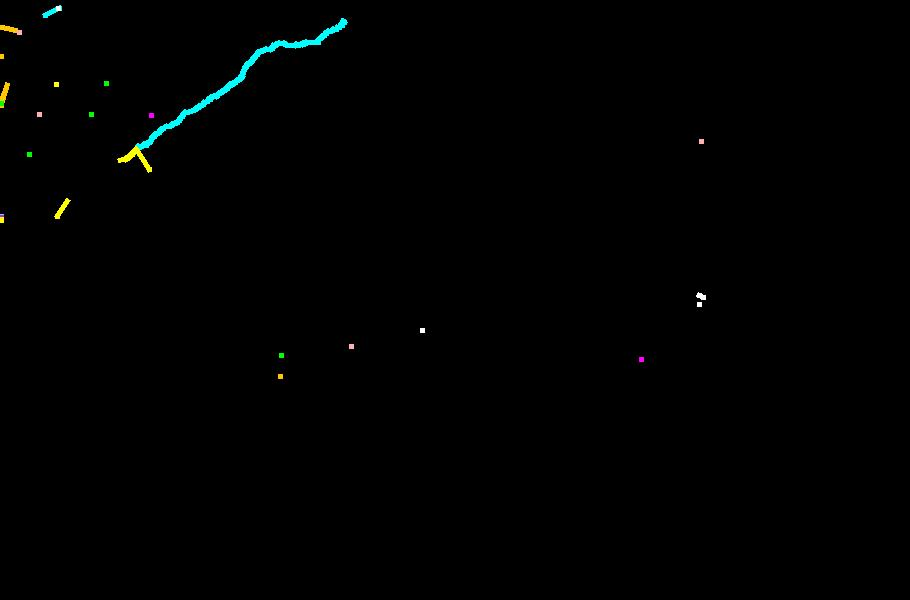
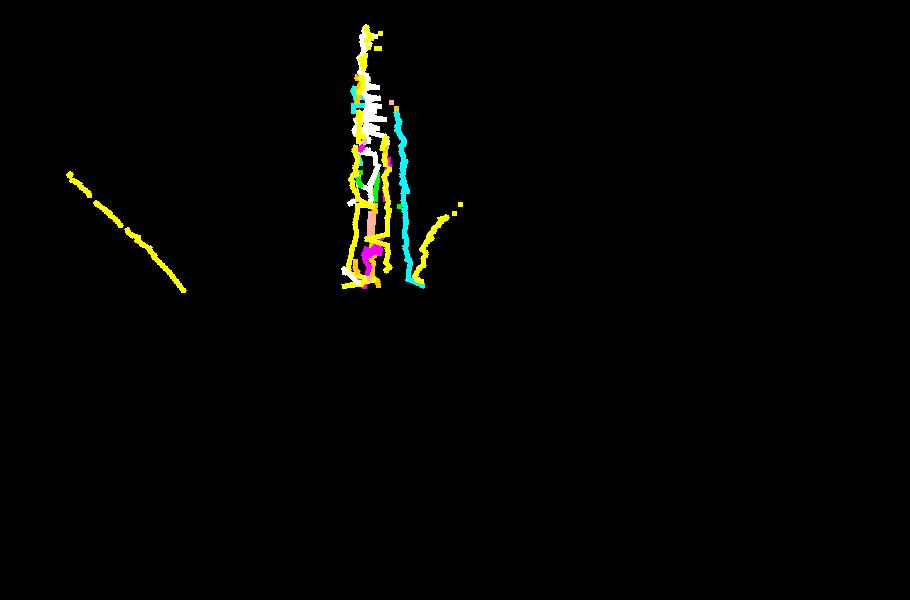
Zmiany zmiany w śledzeniu obiektów.

diff --git a/src/pw/mgr/current/MyRunPrint.java b/src/pw/mgr/current/MyRunPrint.java
@@ -40,9 +40,9 @@ public class MyRunPrint extends Thread {
 
         List<ColorMap> colorMaps = new ArrayList<>();
         colorMaps.add(new ColorMap(1, Color.WHITE)) ;
-        colorMaps.add(new ColorMap(1, Color.PINK)) ;
-        colorMaps.add(new ColorMap(1, Color.ORANGE)) ;
-        colorMaps.add(new ColorMap(1, Color.RED)) ;
+        colorMaps.add(new ColorMap(2, Color.PINK)) ;
+        colorMaps.add(new ColorMap(3, Color.ORANGE)) ;
+        colorMaps.add(new ColorMap(4, Color.RED)) ;
 
 
         Map<Integer, Color> integerColorMap = new HashMap<>();
@@ -100,6 +100,145 @@ public class MyRunPrint extends Thread {
                             .sorted(((o1, o2) -> o1.getSeq().compareTo(o2.getSeq())))
                             .collect(Collectors.toList());
 
+/*
+                    for (DetectedObject objects: collect ) {
+
+                        if(collect.size() > (collect.indexOf(objects) + 1)){
+
+                            Optional<DetectedObject> first = detectedObjects.stream()
+                                    .filter(d -> !d.equals(objects))
+                                    .filter(d -> d.getSeq() < objects.getSeq())
+                                    .filter(d -> d.getRect().x == objects.getRect().x && d.getRect().y == objects.getRect().y)
+                                    .findFirst();
+
+                            if(first.isPresent()){
+                                DetectedObject detectedObject = first.get();
+
+//                                if(detectedObject.getColorMap() != null){
+//                                    objects.setColorMap(colorMaps.get(detectedObject.getColorMap().getId() + 1));
+//                                }else{
+//                                    objects.setColorMap(colorMaps.get(1));
+//                                }
+
+                                if(detectedObject.getColor() != null){
+                                    objects.setColor(new Color(i + 10, 255, 255));
+                                }else{
+                                    objects.setColor(Color.white);
+                                }
+
+                            }else {
+                                objects.setColor(Color.white);
+
+                            }
+
+//                            if(objects.getColorMap() == null){
+//                                objects.setColorMap(colorMaps.get(1));
+//                            }else{
+//                                objects.setColorMap(colorMaps.get(objects.getColorMap().getId() + 1));
+//                            }
+
+                            List<Rect> detectedPointToPrint = detectedObjects.stream()
+                                    .sorted(((o1, o2) -> o1.getSeq().compareTo(o2.getSeq())))
+                                    .map(o -> o.getRect())
+                                    .collect(Collectors.toList());
+
+                            List<SortedObject> sortedObjects = new ArrayList<>();
+
+                            int o = 1 ;
+
+                            for (Rect rect: detectedPointToPrint ) {
+                                if (sortedObjects.isEmpty()) {
+                                    SortedObject sortedObject = new SortedObject(o, 1, rect);
+                                    sortedObjects.add(sortedObject);
+                                    o++;
+
+                                }else {
+                                    Optional<SortedObject> first1 = sortedObjects.stream()
+                                            .filter(s -> s.getRect().x == rect.x && s.getRect().y == rect.y)
+                                            .findFirst();
+
+                                    if(first1.isPresent()){
+                                        SortedObject sortedObject = first1.get();
+                                        sortedObject.setSortedIdIn(sortedObject.getSortedIdIn() + 1);
+                                        sortedObjects.add(sortedObject);
+                                    }else{
+                                        SortedObject sortedObject = new SortedObject(o, 1, rect);
+                                        sortedObjects.add(sortedObject);
+                                        o++;
+                                    }
+                                }
+                            }
+
+                            int colour = 0 ;
+
+                            List<Integer> numbers = sortedObjects.stream()
+                                    .map(d -> d.getSortedId())
+                                    .distinct()
+                                    .collect(Collectors.toList());
+
+                            numbers.stream()
+                                    .forEach(n -> {
+                                        List<SortedObject> collect1 = sortedObjects.stream()
+                                                .filter(s -> s.getSortedId().equals(n))
+                                                .collect(Collectors.toList());
+
+                                        int size = collect1.size();
+                                        SortedObject sortedObject = collect1.stream()
+                                                .findFirst()
+                                                .get();
+
+//                                        System.out.println("rect.x " + rect.getRect().x + " rect.y " + rect.getRect().y + " rect.getSortedIdIn() " + rect.getSortedIdIn());
+//                                        int sortedIdInColour = rect.getSortedIdIn();
+//                                        rect.setSortedIdIn(sortedIdInColour);
+                                        size= size* 63 ;
+//                                        System.out.println("size " + size);
+                                        if(size <= 255 && size > 0){
+                                            cg.setColor(new Color(size,255, 255));
+                                        }else if(size <= 255 && size >= 510){
+                                            cg.setColor(new Color(255, size/2 , 255));
+                                        }else if(size <= 765 && size > 0){
+                                            cg.setColor(new Color(255, 255, size/3));
+                                        }
+                                        cg.fillOval(sortedObject.getRect().x, sortedObject.getRect().y, 5, 5);
+
+
+                                    });
+
+//                            sortedObjects.stream()
+//                                            .forEach(rect -> {
+//
+//                                                System.out.println("rect.x " + rect.getRect().x + " rect.y " + rect.getRect().y + " rect.getSortedIdIn() " + rect.getSortedIdIn());
+//                                                int sortedIdInColour = rect.getSortedIdIn();
+//                                                rect.setSortedIdIn(sortedIdInColour);
+//                                                if(rect.getSortedIdIn() <= 255 && rect.getSortedIdIn() > 0){
+//                                                    cg.setColor(new Color(rect.getSortedIdIn(),255, 255));
+//                                                }else if(rect.getSortedIdIn() <= 255 && rect.getSortedIdIn() >= 510){
+//                                                    cg.setColor(new Color(255, rect.getSortedIdIn()/2 , 255));
+//                                                }else if(rect.getSortedIdIn() <= 765 && rect.getSortedIdIn() > 0){
+//                                                    cg.setColor(new Color(255, 255, rect.getSortedIdIn()/3));
+//                                                }
+//                                                cg.fillOval(rect.getRect().x, rect.getRect().y, 10, 10);
+//
+//                                            });
+
+//                            cg.setColor(objects.getColor());
+////                            cg.setColor(Color.WHITE);
+
+//                            cg.setColor(integerColorMap.get(i));
+//                            cg.setStroke(new BasicStroke(5));
+//                            cg.fillOval(objects.getRect().x, objects.getRect().y , width, height);
+
+//                            cg.drawOval( objects.getRect().x, objects.getRect().y , width, height);
+//                            cg.fillRect(objects.getRect().x,objects.getRect().y, 4 ,4);
+//                            cg.drawLine(objects.getRect().x,objects.getRect().y, collect.get(collect.indexOf(objects) +1 ).getRect().x, collect.get(collect.indexOf(objects) +1 ).getRect().y );
+
+                                }
+
+
+
+                    }
+*/
+
                     for (DetectedObject objects: collect ) {
 
                         if(collect.size() > (collect.indexOf(objects) + 1)){
@@ -138,6 +277,7 @@ public class MyRunPrint extends Thread {
 
                         }
                     }
+
 
                 });
 
@@ -188,6 +328,7 @@ public class MyRunPrint extends Thread {
 //        }
 
 
+        System.out.println("finish print");
         File output = new File("result/wykryty_ruch6.jpg");
         output.mkdirs();
         try {

diff --git a/src/pw/mgr/current/MoveDetection.java b/src/pw/mgr/current/MoveDetection.java
@@ -5,6 +5,7 @@ import org.opencv.core.*;
 import org.opencv.core.Point;
 import org.opencv.imgcodecs.Imgcodecs;
 import org.opencv.imgproc.Imgproc;
+import org.opencv.objdetect.Objdetect;
 import org.opencv.video.BackgroundSubtractorMOG2;
 import org.opencv.video.Video;
 import org.opencv.videoio.VideoCapture;
@@ -48,8 +49,12 @@ public class MoveDetection {
     private static  Integer seq = 1;
     private static  Integer group = 1;
 
-    private static String videoAddress = "C:\\Users\\piotrek\\Desktop\\test\\VIDEO0386.mp4";
-//    private static String videoAddress = "C:\\Users\\piotrek\\Desktop\\test\\magi_new.mp4";
+//    private static String videoAddress = "C:\\Users\\piotrek\\Desktop\\test\\VIDEO0376.mp4";
+    private static String videoAddress = "C:\\Users\\piotrek\\Desktop\\test\\magi_new.mp4";
+//    private static String videoAddress = "C:\\Users\\piotrek\\Desktop\\test\\test_film1.mp4";
+//    private static String videoAddress = "C:\\Users\\piotrek\\Desktop\\test\\magi_new2.mp4";
+//      private static String videoAddress = "E:\\magi\\film\\YDXJ0571.MP4";
+//    private static String videoAddress = "C:\\Users\\piotrek\\Desktop\\test\\magi_new3.mp4";
 
     private static VideoCapture video = new VideoCapture(videoAddress);
     private static List<DetectedObject> detectedObjectList;
@@ -134,7 +139,9 @@ public class MoveDetection {
 
         Mat secondFrame;
         video.read(frame);
-        Imgproc.resize(frame, frame,new Size(710, 400));
+
+        Imgproc.resize(frame, frame,new Size(640, 480));
+//        Imgproc.resize(frame, frame,new Size(710, 400));
 //        Imgproc.resize(frame, frame,new Size(890, 500));
 //        Imgproc.resize(frame, frame,new Size(1060, 600));
         firstScreen = frame;

diff --git a/src/pw/mgr/current/DetectedObject.java b/src/pw/mgr/current/DetectedObject.java
@@ -2,6 +2,8 @@ package pw.mgr.current;
 
 import org.opencv.core.Rect;
 
+import java.awt.*;
+
 /**
  * Created by piotrek on 2017-05-06.
  */
@@ -13,6 +15,7 @@ public class DetectedObject {
     private Integer seq ;
     private Integer group;
     private ColorMap colorMap ;
+    private Color color ;
 
     public DetectedObject(Integer iterationId, Integer contourId, Rect rect, Integer seq, Integer group) {
         this.iterationId = iterationId;
@@ -78,6 +81,14 @@ public class DetectedObject {
 
     public void setColorMap(ColorMap colorMap) {
         this.colorMap = colorMap;
+    }
+
+    public Color getColor() {
+        return color;
+    }
+
+    public void setColor(Color color) {
+        this.color = color;
     }
 
     @Override

diff --git a/src/pw/mgr/current/SortedObject.java b/src/pw/mgr/current/SortedObject.java
@@ -17,6 +17,11 @@ public class SortedObject {
         this.rect = rect;
     }
 
+    public SortedObject(Integer sortedId, Rect rect) {
+        this.rect = rect;
+        this.sortedId = sortedId;
+    }
+
     public SortedObject() {
     }
 
